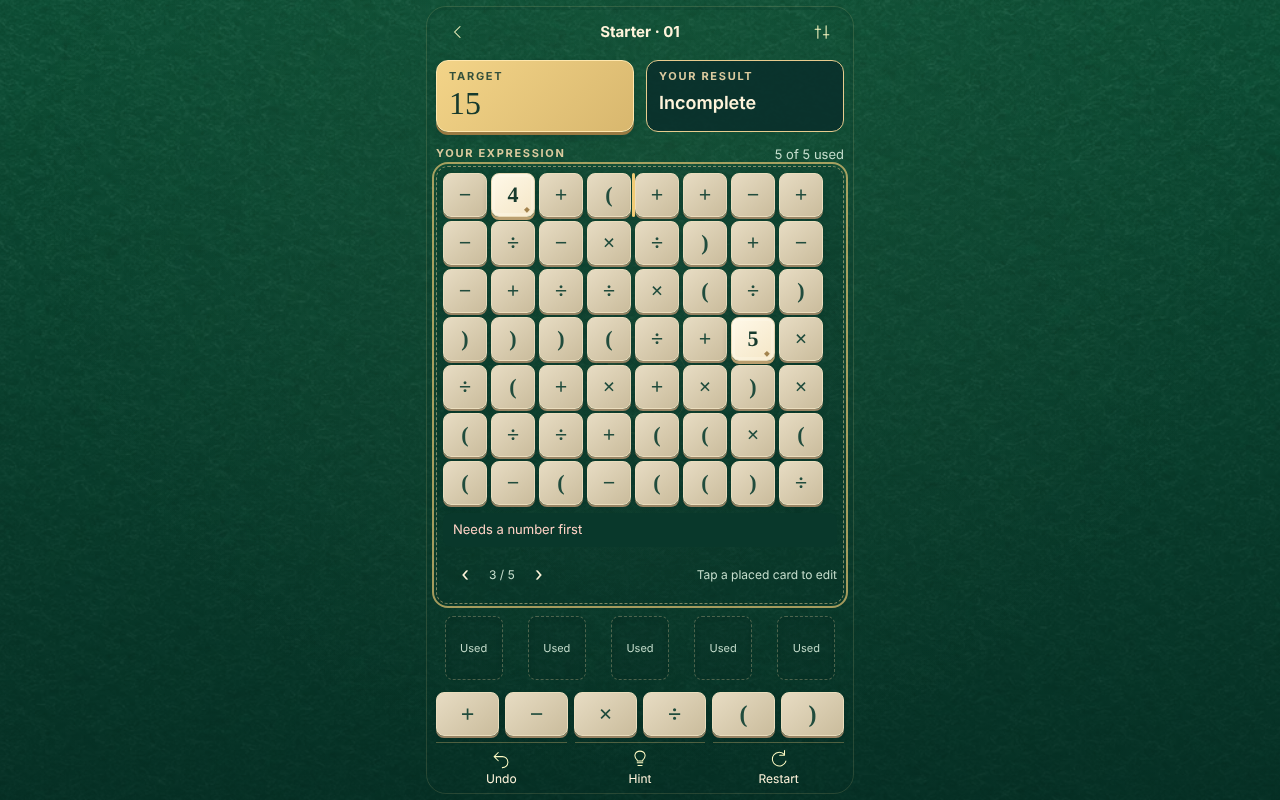
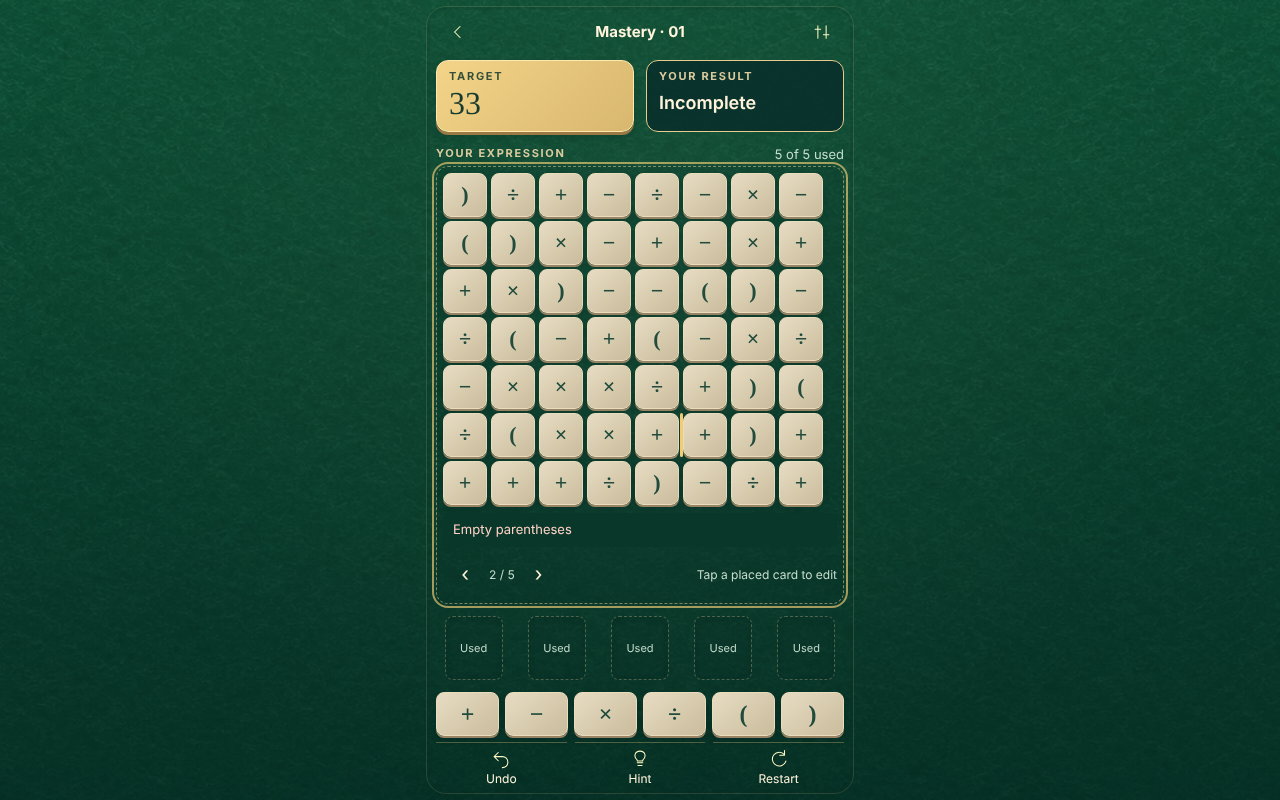
mathly-trails: night 2
Claude-Session: https://claude.ai/code/session_01HjzXZTmSsj9WUgxZbN4Bea

diff --git a/games/mathly-trails/index.html b/games/mathly-trails/index.html
@@ -4,6 +4,7 @@
 <meta charset="utf-8">
 <meta name="viewport" content="width=device-width, initial-scale=1, viewport-fit=cover">
 <title>Mathly</title>
+<meta name="claude:viewport-fit-sides" content="cover">
 <meta name="color-scheme" content="dark">
 <style>
 /* Mathly · Card Table look (designer hand-over v1.1). One committed look: every colour is set explicitly. */

diff --git a/games/mathly-trails/NIGHTS.md b/games/mathly-trails/NIGHTS.md
@@ -1,4 +1,35 @@
-# Mathly Trails — night log
+# Mathly — night log
+
+## Night 2 — 2026-10-20
+
+**Job:** iteration on notes: "The designer's hand-over for Mathly is in … Next: phase 1 — new engine, play and completion screens in the Card Table look, Starter's 8 boards."
+
+**Shipped:**
+- The game is now **Mathly**, built from the designer's hand-over. The night-1 merge-tiles game, trail map and stars are gone. You get a target and five cards, and you build one expression with + − × ÷ and parentheses, which you can use as often as you like. You must use all five cards. The result updates live. The puzzle finishes by itself (no Submit button), with a check, "Solved", a 600 ms moment on the board, then the completion screen: Next puzzle, Back to collection, Review expression and Try another way.
+- A new engine: a tokenizer and recursive-descent parser (no `eval`) with exact BigInt fractions. It covers every result state in §2: empty, valid, target matched early, all five used but the target missed, incomplete with "Last valid", and divide by zero. All 10 parser fixtures in `engine-cases.json` agree, and all 12 boards agree with `verification.json`. A separate exhaustive solver finds a solution to every board.
+- Card Table look: the play screen follows key-screens.jpg and mockups 05–13. That means the brass target plaque, dark result plaque, expression well with the table-mark roundel, five stable source slots with "Used" ghosts, the operator palette, and Undo/Hint/Restart. The felt, logo, roundel and icons load from `assets/`.
+- Editing: tap to insert at the gold caret, tap a placed card for Before/After/Remove/Done, and tap an operator while an operator is selected to replace it. Drag and drop inserts, moves, and removes (drop on the tray). Undo covers every edit, including Restart. The expression pages when it gets long. Keyboard play works in the workspace.
+- Home → Collections → collection → play → complete. Starter's 8 boards come from `levels.json` as delivered, and the other 4 sample boards are the Multiplication, Division and Mastery collections. There is a three-step hint ("With hint" is recorded, nothing is lost), How to play, and settings (sound off by default, high contrast). Progress and the current attempt are saved locally.
+
+**QA:** 17/17 checks passed · 3 rounds · all 12 boards completable via `solve()`. I also checked real taps, mouse drags, keys and reload/continue in a separate script, and looked at screenshots at 390×844, 375×667, 320×568, 1280×800 and 844×390. Known issues: landscape is a stacked, scrolling stopgap rather than the two-column board in the spec. Undo history doesn't survive a reload (only the expression does).
+
+**Reviewer:** ship with fixes. Phase 1 delivers the hand-over, and Multiplication 01 is the best moment. All eight Starter boards play the same way (add the big cards, take away the small ones), and there's almost nothing after them yet.
+- Fixed:
+  - Landscape layout overlapping the tray (stopgap: stack and scroll).
+  - The dragged card hid the drop caret. The card now floats above the finger and the drop point gets a glowing caret.
+  - "Last valid" could show a value from an earlier expression. It now comes from the current expression's valid start, or is left out.
+  - A focus ring on the completion heading.
+  - Completed level tiles looked disabled. They now get a brass check.
+- Not fixed: no Daily and no practice yet (phase 2). Starter boards all feel alike, which is designer content, so it's a question for Benji.
+
+**Assumptions:**
+- Number keys place the first free card of that value, even with duplicates. The spec asks you to select duplicates first, but they are interchangeable.
+- I hid the Daily card on Home until phase 2 instead of showing a dead entry.
+- I couldn't read mathly.trevald.com again tonight (the fetch wasn't allowed), so the hand-over is the only source.
+
+**Questions for Benji:** 1) Go ahead with phase 2 (UTC Daily, Practice for each collection, more Multiplication/Division/Mastery boards)? 2) All 8 Starter boards play the same way. Should the studio make 2–3 of them need a different move, or ask the designer?
+
+**Play:** https://claude.ai/artifact/3ouYeSyBQsbEQ46theZZck
 
 ## Night 1 — 2026-10-19
 
